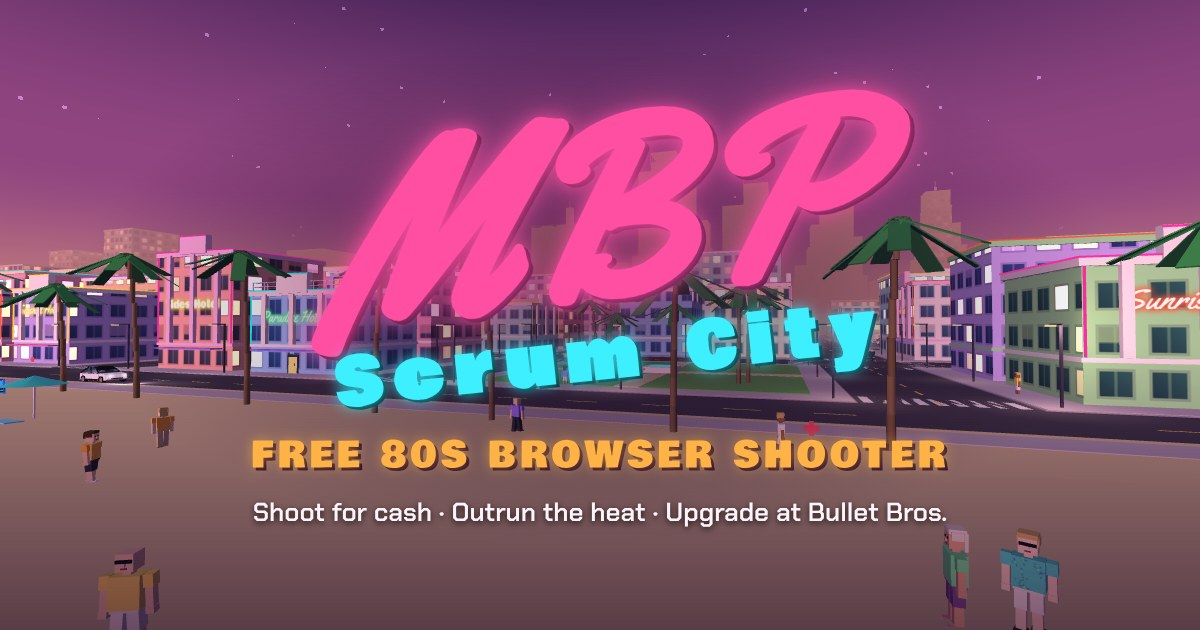
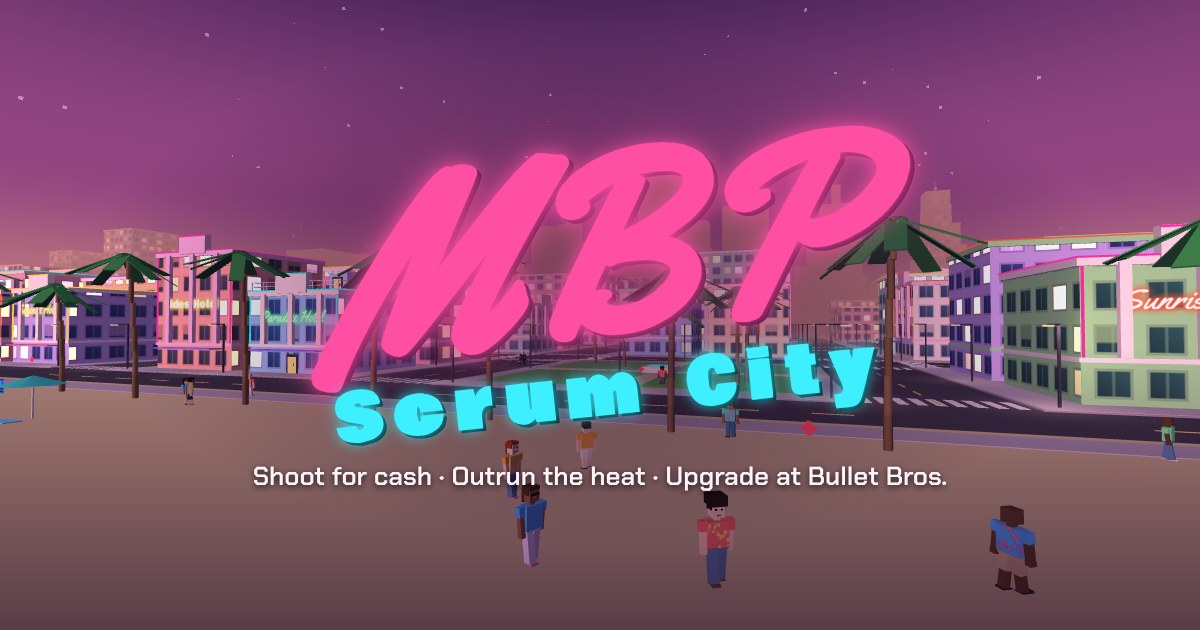
Drop the 'Free 80s browser shooter' tagline from the OG image and meta tags
Titles are now just MBP - Scrum City, and the descriptions no longer say free,
80s or in your browser. The image URL moves to ?v=3 so share caches refetch.

Claude-Session: https://claude.ai/code/session_01VybJ5TtSYTtQT6vFpddjr6

diff --git a/public/index.html b/public/index.html
@@ -25,8 +25,8 @@ window.ldArt = (() => {
   return art;
 })();
 </script>
-<title>MBP - Scrum City · Free 80s Open-City Shooter in Your Browser</title>
-<meta name="description" content="MBP - Scrum City is a free low-poly 80s beach-city shooter you play in your browser. Shoot for cash, outrun a 5-star wanted level, and upgrade your guns at Bullet Bros. No download needed.">
+<title>MBP - Scrum City</title>
+<meta name="description" content="MBP - Scrum City is a low-poly beach-city shooter. Shoot for cash, outrun a 5-star wanted level, and upgrade your guns at Bullet Bros.">
 <meta name="theme-color" content="#170c28">
 <meta name="color-scheme" content="dark">
 <meta name="robots" content="index, follow, max-image-preview:large">
@@ -39,19 +39,19 @@ window.ldArt = (() => {
 
 <meta property="og:type" content="website">
 <meta property="og:site_name" content="MBP - Scrum City">
-<meta property="og:title" content="MBP - Scrum City · Free 80s browser shooter">
-<meta property="og:description" content="Ocean Drive at dusk. Shoot for cash, outrun the heat, and spend it at Bullet Bros. Guns. Play free in your browser.">
+<meta property="og:title" content="MBP - Scrum City">
+<meta property="og:description" content="Ocean Drive at dusk. Shoot for cash, outrun the heat, and spend it at Bullet Bros. Guns.">
 <meta property="og:url" content="https://mbp-scrum-city.atlesque.dev/">
-<meta property="og:image" content="https://mbp-scrum-city.atlesque.dev/og-image.jpg?v=2">
+<meta property="og:image" content="https://mbp-scrum-city.atlesque.dev/og-image.jpg?v=3">
 <meta property="og:image:type" content="image/jpeg">
 <meta property="og:image:width" content="1200">
 <meta property="og:image:height" content="630">
 <meta property="og:image:alt" content="MBP - Scrum City logo glowing over a low-poly pastel beach city at dusk">
 <meta property="og:locale" content="en_US">
 <meta name="twitter:card" content="summary_large_image">
-<meta name="twitter:title" content="MBP - Scrum City · Free 80s browser shooter">
-<meta name="twitter:description" content="Ocean Drive at dusk. Shoot for cash, outrun the heat, and spend it at Bullet Bros. Guns. Play free in your browser.">
-<meta name="twitter:image" content="https://mbp-scrum-city.atlesque.dev/og-image.jpg?v=2">
+<meta name="twitter:title" content="MBP - Scrum City">
+<meta name="twitter:description" content="Ocean Drive at dusk. Shoot for cash, outrun the heat, and spend it at Bullet Bros. Guns.">
+<meta name="twitter:image" content="https://mbp-scrum-city.atlesque.dev/og-image.jpg?v=3">
 <meta name="twitter:image:alt" content="MBP - Scrum City logo glowing over a low-poly pastel beach city at dusk">
 
 <script type="application/ld+json">
@@ -60,8 +60,8 @@ window.ldArt = (() => {
   "@type": "VideoGame",
   "name": "MBP - Scrum City",
   "url": "https://mbp-scrum-city.atlesque.dev/",
-  "image": "https://mbp-scrum-city.atlesque.dev/og-image.jpg?v=2",
-  "description": "A free low-poly 80s beach-city shooter for desktop browsers. Shoot for cash, outrun a 5-star wanted level of police, SWAT, federal agents and the army, and upgrade your guns at Bullet Bros.",
+  "image": "https://mbp-scrum-city.atlesque.dev/og-image.jpg?v=3",
+  "description": "A low-poly beach-city shooter. Shoot for cash, outrun a 5-star wanted level of police, SWAT, federal agents and the army, and upgrade your guns at Bullet Bros.",
   "genre": ["Action", "Shooter", "Open world"],
   "gamePlatform": "Web browser",
   "applicationCategory": "Game",
